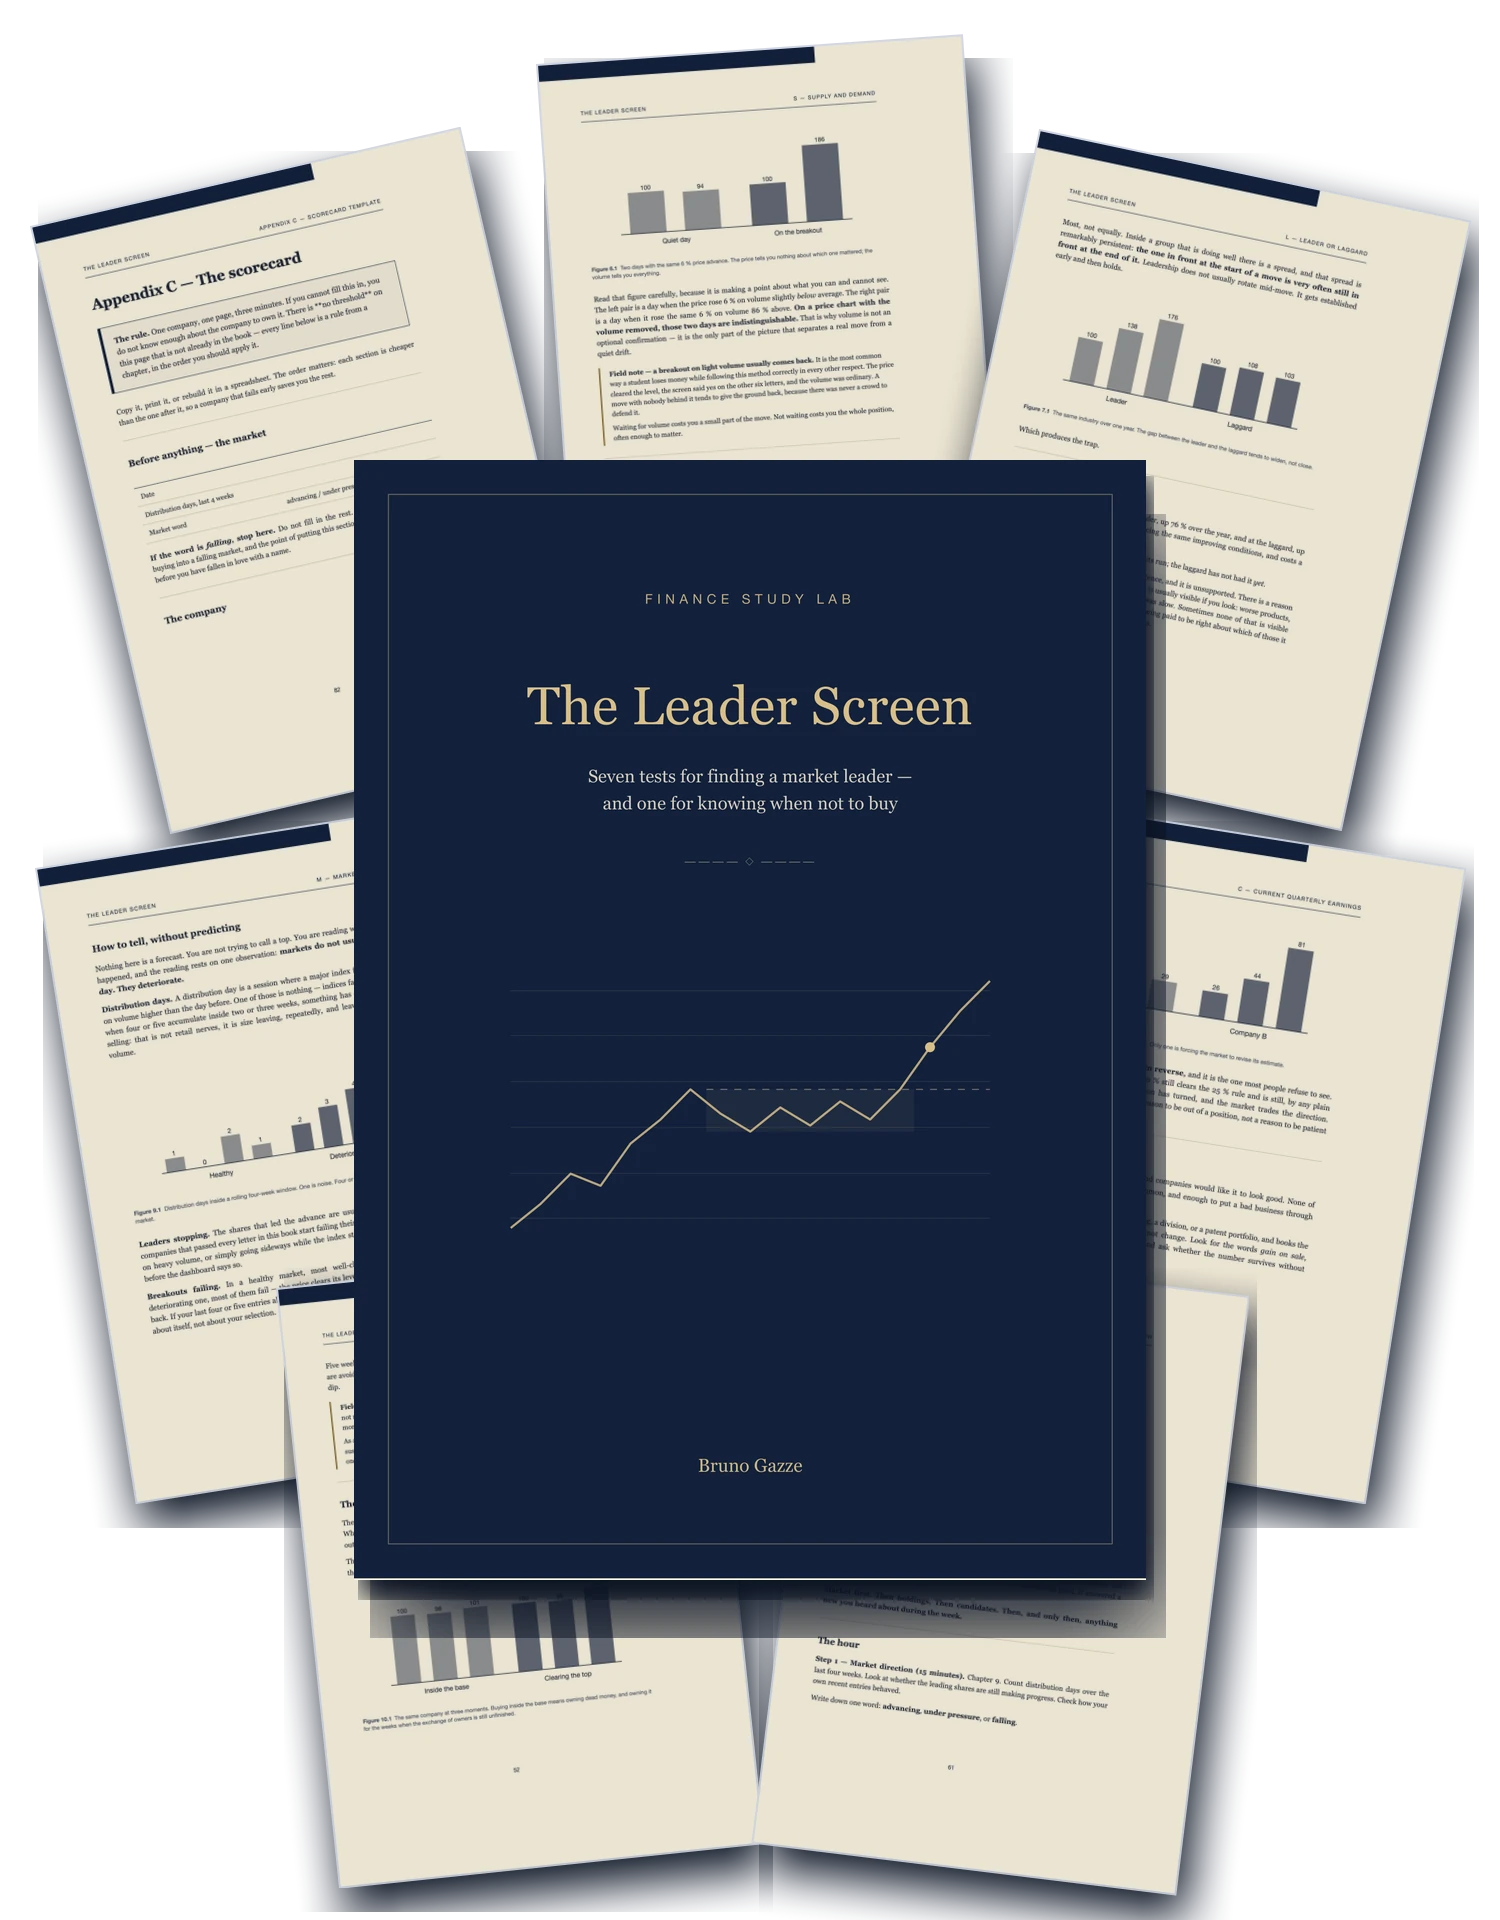
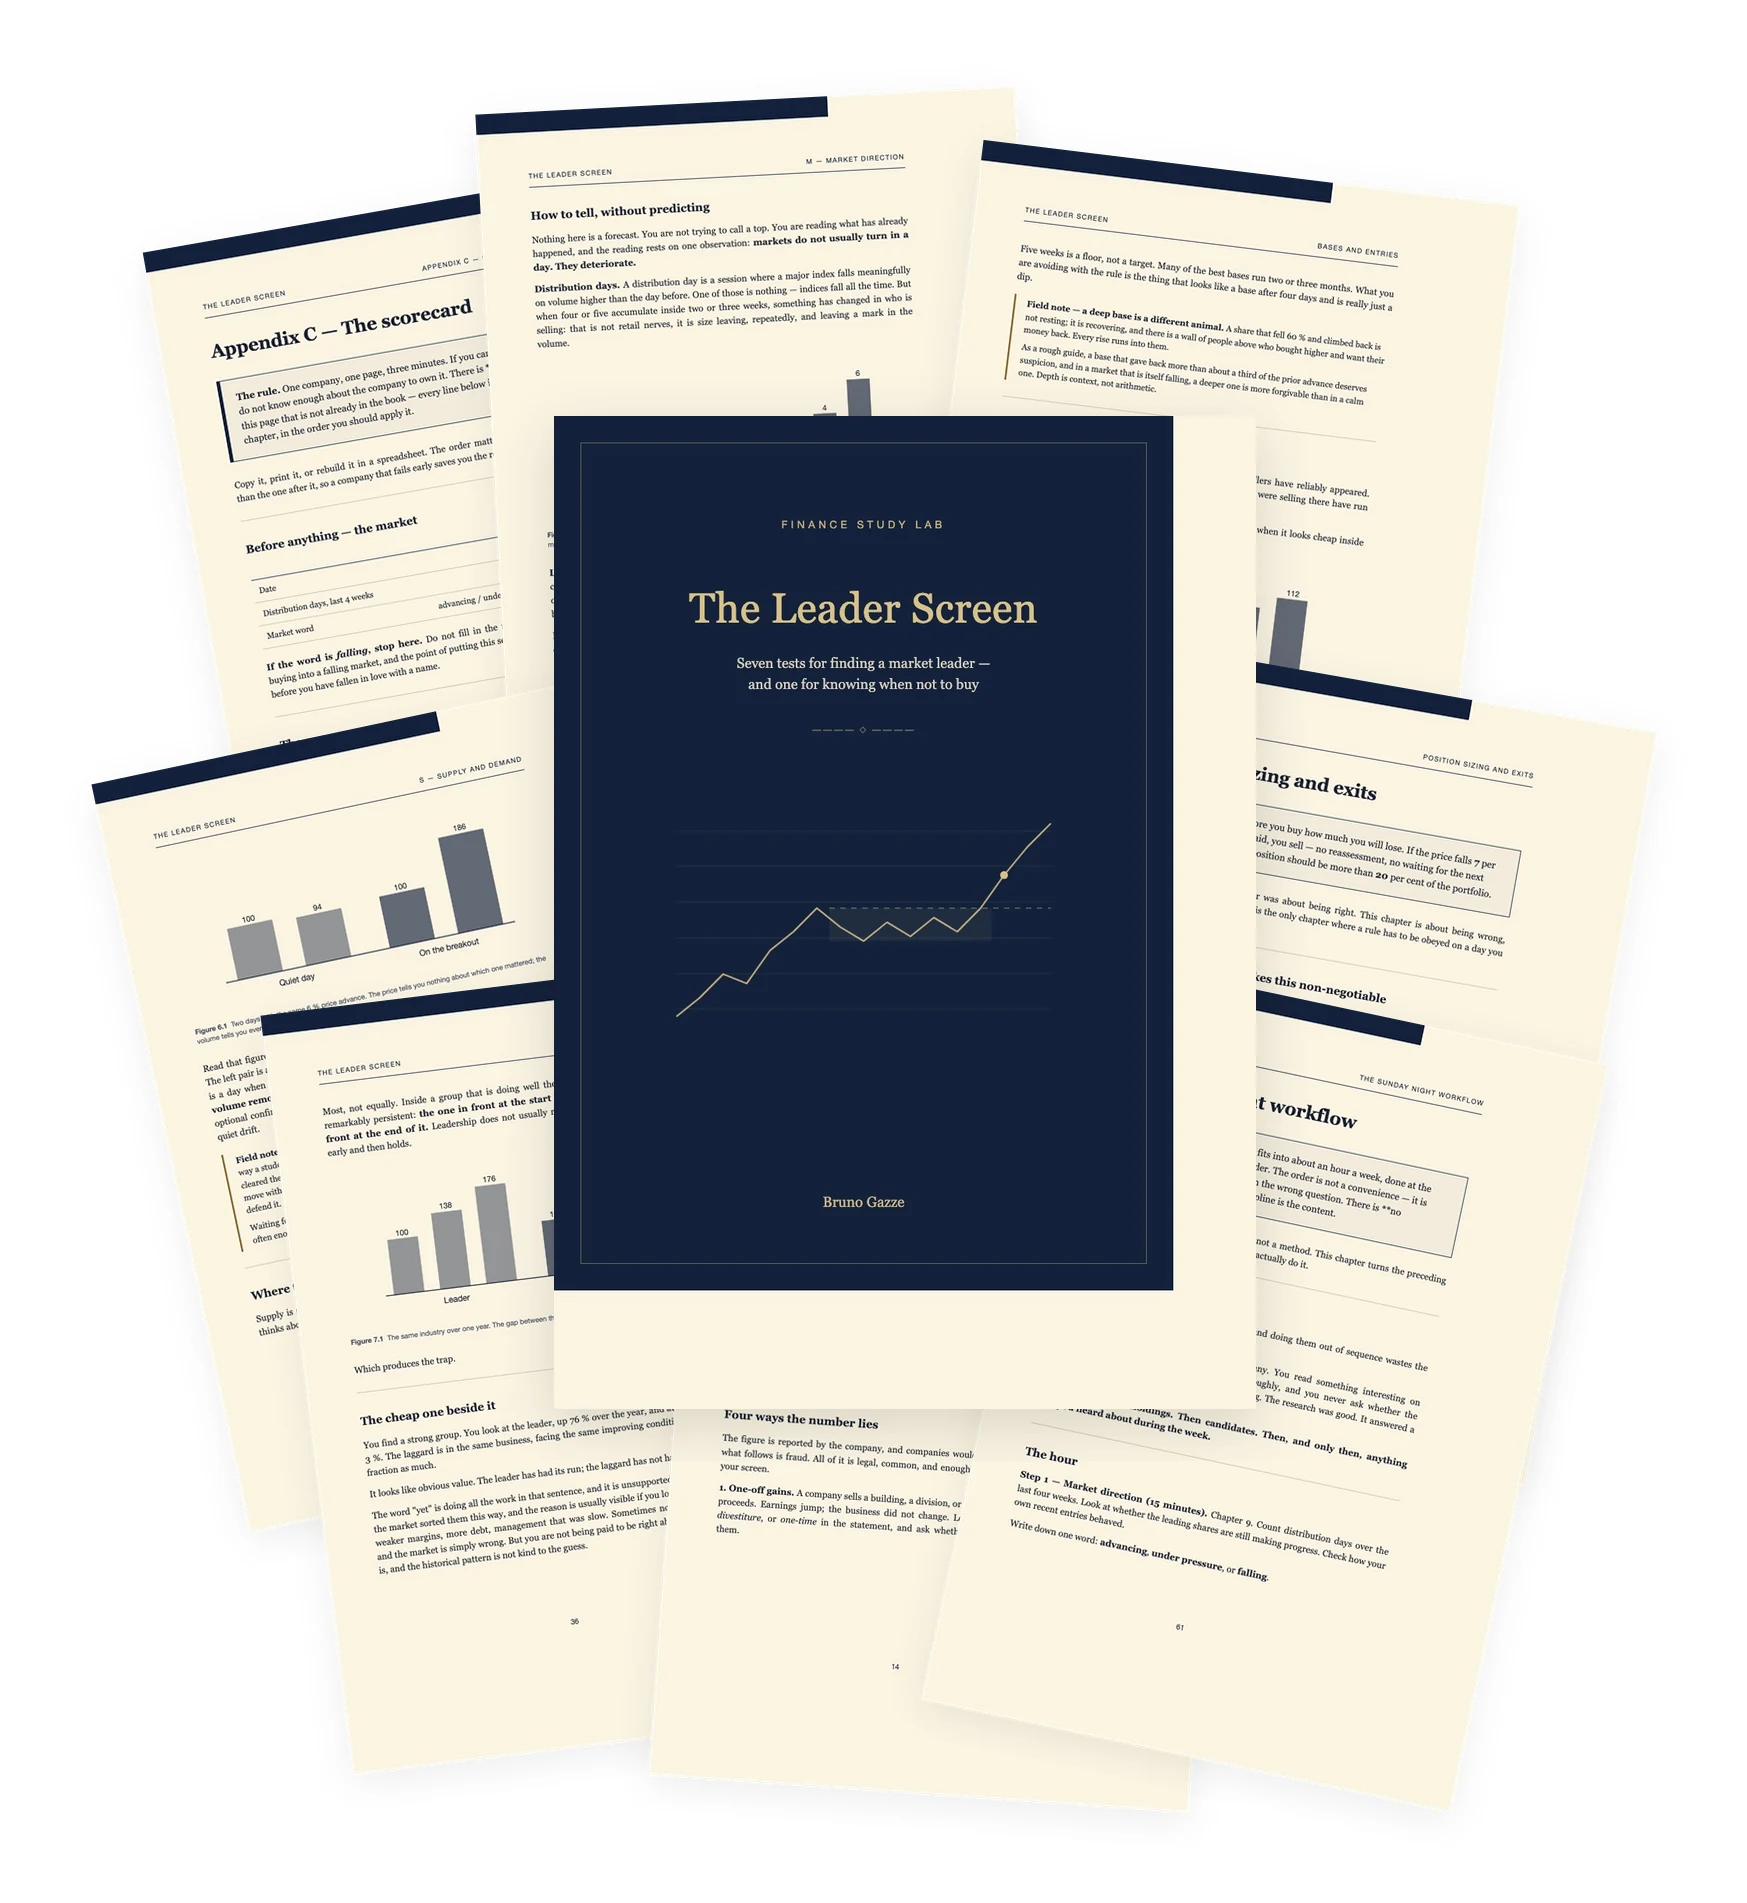
El collage sin paginas cortadas, y la suscripcion donde se ve
LA IMAGEN
  El archivo viejo (1500x1920) cortaba por el borde del lienzo las paginas
  de los costados y las de abajo: no era el CSS, los pixeles no estaban.
  Se recompone con armar-collage.py, que rota cada pagina primero, mide su
  caja ya rotada y recien ahi decide el lienzo como la union de todas mas
  margen. Al final verifica y falla si algo quedo a menos de 48 px del
  borde. Quedo 1747x1903 con 82-91 px de aire por lado.

  De paso, el width/height del <img> seguia diciendo 1500x1920: el
  navegador reservaba una caja de otra forma y la pagina saltaba al cargar.

LA SUSCRIPCION
  La seccion existe y esta publicada, pero arranca a 24.370 px en una
  pagina de 56.517 (43%) y un solo link apuntaba a ella: por eso no se ve.
  Se agrega el aviso justo debajo de «Here's Exactly What You Get», que es
  la parte que la gente mira, con el precio, que es opcional y post-pago, y
  el ancla a la seccion completa.

diff --git a/index.html b/index.html
@@ -1219,7 +1219,7 @@
       <h2 class="text-center">Here's Exactly What You Get:</h2>
 
       <div class="kit-collage">
-        <img src="./img/pages-collage.webp" alt="The Leader Screen surrounded by real pages from the book: the scorecard, supply and demand, leader or laggard, market direction" width="1500" height="1920" loading="lazy" decoding="async">
+        <img src="./img/pages-collage.webp" alt="The Leader Screen surrounded by real pages from the book: the scorecard, supply and demand, leader or laggard, market direction" width="1747" height="1903" loading="lazy" decoding="async">
       </div>
 
       <div class="topics-grid">
@@ -1234,6 +1234,16 @@
         
         
         
+      </div>
+
+
+      <!-- La suscripcion, anunciada arriba. La seccion entera esta mas abajo
+           (#weekly-screen); aca va solo el aviso, porque esta es la parte de
+           la pagina que la gente mira de verdad. -->
+      <div style="max-width:720px;margin:44px auto 0;padding:26px 28px;border:1px solid #d7dceb;border-left:4px solid #c9a227;border-radius:12px;background:#fbfcfe;">
+        <p style="margin:0 0 8px;font-size:12px;letter-spacing:.12em;text-transform:uppercase;color:#8a93a8;font-weight:700;">Optional &middot; after checkout</p>
+        <p style="margin:0 0 10px;font-size:19px;font-weight:700;line-height:1.35;">The book teaches the method. <a href="#weekly-screen" style="color:#1a2a52;">The&nbsp;Weekly&nbsp;Screen</a> runs it for you, every Sunday.</p>
+        <p style="margin:0;font-size:15px;color:#475467;line-height:1.6;">Named companies, what is forming, what broke down, and my own read on it &mdash; not a digest of headlines. <strong>$9 a month</strong>, offered once after you check out, cancel in one click. <a href="#weekly-screen" style="color:#1a2a52;font-weight:600;">See what is in it &darr;</a></p>
       </div>
 
       <p class="text-center" style="font-size:15px;color:var(--text-light);max-width:760px;margin:0 auto;">

diff --git a/armar-collage.py b/armar-collage.py
@@ -1,0 +1,103 @@
+#!/usr/bin/env python3
+# -*- coding: utf-8 -*-
+"""Rehace img/pages-collage.webp: el abanico de paginas con la tapa al frente.
+
+POR QUE SE REHIZO
+  El archivo anterior (1500x1920) cortaba por el borde del lienzo las paginas
+  de los costados y las de abajo. No era un problema de CSS: los pixeles no
+  estaban en la imagen. Agregar margen no lo arregla, hay que recomponer.
+
+COMO EVITA QUE SE VUELVA A CORTAR
+  No se acomoda a ojo. Cada pagina se rota primero, se mide su caja real ya
+  rotada, y recien ahi se decide el lienzo: se toma la union de todas las
+  cajas y se agrega MARGEN. Si una pagina se mueve o se rota distinto, el
+  lienzo se agranda solo. Al final verifica y falla si algo quedo a menos de
+  MARGEN del borde.
+
+  python3 armar-collage.py
+"""
+import math, pathlib, sys
+from PIL import Image, ImageFilter
+
+RAIZ = pathlib.Path(__file__).parent / "img"
+SALIDA = RAIZ / "pages-collage.webp"
+MARGEN = 48          # px de aire garantizado entre lo dibujado y el borde
+ESCALA_HOJA = 0.60   # tamano de las paginas de atras, sobre el original
+ESCALA_TAPA = 0.78   # la tapa, mas grande: es la que manda
+
+# Las ocho paginas alrededor de la tapa: (archivo, angulo, dx, dy) en px sobre
+# el centro. Angulo en grados, positivo = antihorario.
+HOJAS = [
+    ("page-1.jpg", 10, -430, -330),
+    ("page-2.jpg", 3, -140, -430),
+    ("page-3.jpg", -7, 300, -360),
+    ("page-4.jpg", 12, -470, 190),
+    ("page-5.jpg", -10, 420, 150),
+    ("page-6.jpg", 7, -330, 450),
+    ("page-7.jpg", -4, 40, 500),
+    ("page-8.jpg", -12, 360, 470),
+]
+
+
+def cargar(nombre, escala):
+    im = Image.open(RAIZ / nombre).convert("RGBA")
+    return im.resize((round(im.width * escala), round(im.height * escala)), Image.LANCZOS)
+
+
+def con_sombra(im, radio=18, desvio=(0, 10), opacidad=70):
+    """Sombra suave: sin esto las paginas se ven pegadas, no apiladas."""
+    sombra = Image.new("RGBA", (im.width + radio * 4, im.height + radio * 4), (0, 0, 0, 0))
+    silueta = Image.new("RGBA", im.size, (14, 23, 48, opacidad))
+    silueta.putalpha(im.getchannel("A").point(lambda a: min(a, opacidad)))
+    sombra.paste(silueta, (radio * 2 + desvio[0], radio * 2 + desvio[1]), silueta)
+    sombra = sombra.filter(ImageFilter.GaussianBlur(radio))
+    sombra.paste(im, (radio * 2, radio * 2), im)
+    return sombra
+
+
+def main():
+    faltan = [n for n, *_ in HOJAS if not (RAIZ / n).exists()]
+    if not (RAIZ / "cover.jpg").exists():
+        faltan.append("cover.jpg")
+    if faltan:
+        sys.exit(f"\n  Faltan imagenes en img/: {', '.join(faltan)}\n")
+
+    # 1. Rotar todo primero, para conocer el tamano REAL de cada pieza.
+    piezas = []  # (imagen ya rotada y con sombra, centro x, centro y)
+    for nombre, angulo, dx, dy in HOJAS:
+        im = con_sombra(cargar(nombre, ESCALA_HOJA))
+        im = im.rotate(angulo, resample=Image.BICUBIC, expand=True)
+        piezas.append((im, dx, dy))
+    tapa = con_sombra(cargar("cover.jpg", ESCALA_TAPA), radio=26, desvio=(0, 16), opacidad=95)
+    piezas.append((tapa, 0, 0))
+
+    # 2. El lienzo sale de la union de las cajas, no de un numero inventado.
+    izq = min(dx - im.width / 2 for im, dx, dy in piezas)
+    der = max(dx + im.width / 2 for im, dx, dy in piezas)
+    arr = min(dy - im.height / 2 for im, dx, dy in piezas)
+    aba = max(dy + im.height / 2 for im, dx, dy in piezas)
+    W = round(der - izq) + MARGEN * 2
+    H = round(aba - arr) + MARGEN * 2
+    cx, cy = -izq + MARGEN, -arr + MARGEN
+
+    lienzo = Image.new("RGBA", (W, H), (0, 0, 0, 0))
+    for im, dx, dy in piezas:
+        lienzo.alpha_composite(im, (round(cx + dx - im.width / 2), round(cy + dy - im.height / 2)))
+
+    # 3. Verificar: ninguna tinta a menos de MARGEN del borde.
+    caja = lienzo.getchannel("A").point(lambda a: 255 if a > 8 else 0).getbbox()
+    aire = (caja[0], caja[1], W - caja[2], H - caja[3])
+    print(f"  lienzo {W}x{H}   aire izq/arr/der/ab: {aire}")
+    if min(aire) < MARGEN - 2:
+        sys.exit(f"\n  Algo quedo pegado al borde (aire minimo {min(aire)}px, pedido {MARGEN}px).\n")
+
+    # Fondo del sitio, para que no se vea un rectangulo transparente.
+    fondo = Image.new("RGB", (W, H), (255, 255, 255))
+    fondo.paste(lienzo, (0, 0), lienzo)
+    fondo.save(SALIDA, "WEBP", quality=88, method=6)
+    kb = SALIDA.stat().st_size / 1024
+    print(f"  escrito {SALIDA.name}: {W}x{H}  {kb:.0f} KB  (nada tocando el borde)")
+
+
+if __name__ == "__main__":
+    main()
